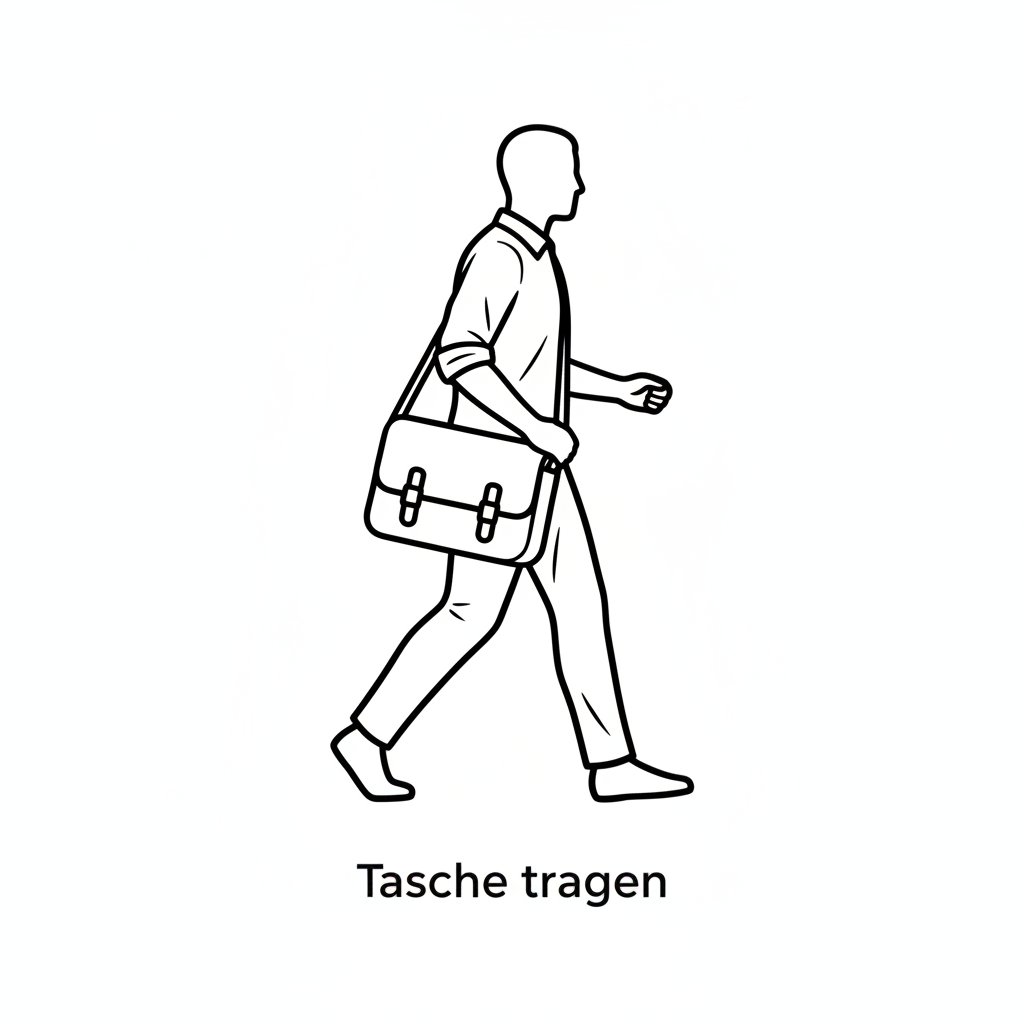
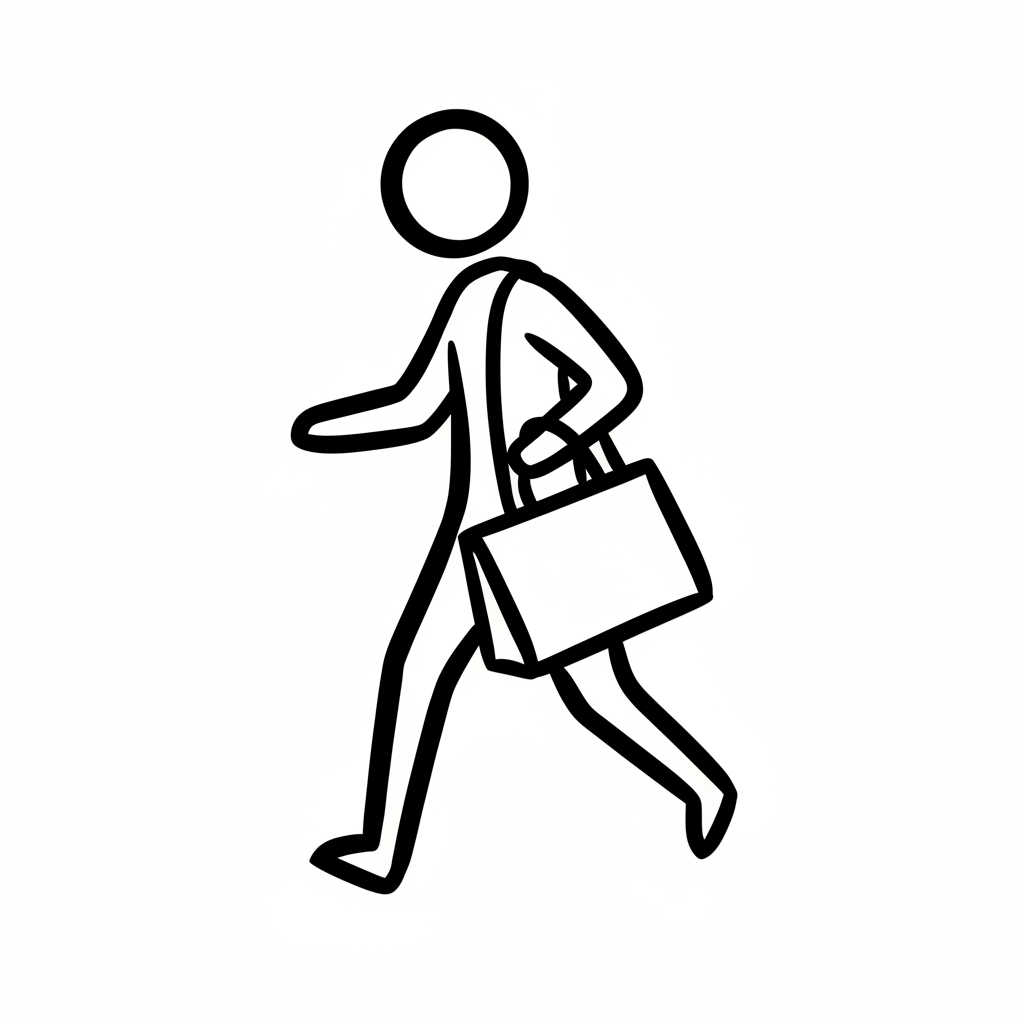
cards

Changed region(s): [[0.2812, 0.0938, 0.7188, 0.9062], [0.5625, 0.1562, 0.5938, 0.1875]]

diff --git a/scripts/generate-authentic-cards-rest.js b/scripts/generate-authentic-cards-rest.js
@@ -1,0 +1,123 @@
+
+import fs from 'fs';
+import path from 'path';
+import { fileURLToPath } from 'url';
+import dotenv from 'dotenv';
+import https from 'https';
+
+dotenv.config({ path: '.env.local' });
+
+// Setup __dirname for ES modules
+const __dirname = path.dirname(fileURLToPath(import.meta.url));
+const OUTPUT_DIR = path.join(__dirname, '../public/cards');
+
+const SPEAKING_PICTURE_CARDS = [
+    { id: 'sp1', type: 'picture', content: 'Fenster aufmachen' },
+    { id: 'sp2', type: 'picture', content: 'Stift leihen' },
+    { id: 'sp3', type: 'picture', content: 'Tür zumachen' },
+    { id: 'sp4', type: 'picture', content: 'Rauchen verboten' },
+    { id: 'sp5', type: 'picture', content: 'Rechnung bezahlen' },
+    { id: 'sp6', type: 'picture', content: 'Milch kaufen' },
+    { id: 'sp7', type: 'picture', content: 'Buch lesen' },
+    { id: 'sp8', type: 'picture', content: 'Kaffee trinken' },
+    { id: 'sp9', type: 'picture', content: 'Ruhe bitte' },
+    { id: 'sp10', type: 'picture', content: 'Telefonieren' },
+    { id: 'sp11', type: 'picture', content: 'Platz nehmen' },
+    { id: 'sp12', type: 'picture', content: 'Unterschreiben' },
+    { id: 'sp13', type: 'picture', content: 'Taxi rufen' },
+    { id: 'sp14', type: 'picture', content: 'Uhrzeit sagen' },
+    { id: 'sp15', type: 'picture', content: 'Wasser geben' },
+    { id: 'sp16', type: 'picture', content: 'Tasche tragen' },
+    { id: 'sp17', type: 'picture', content: 'Compact Disc' },
+    { id: 'sp18', type: 'picture', content: 'Stuhl' },
+    { id: 'sp19', type: 'picture', content: 'Apfel' },
+    { id: 'sp20', type: 'picture', content: 'Koffer' },
+    { id: 'sp21', type: 'picture', content: 'Radio' }
+];
+
+const apiKey = process.env.GEMINI_API_KEY || process.env.VITE_GEMINI_API_KEY;
+
+if (!apiKey) {
+    console.error("Error: GEMINI_API_KEY or VITE_GEMINI_API_KEY is not set.");
+    process.exit(1);
+}
+
+async function generateImage(card) {
+    console.log(`Generating SVG for: ${card.id} - ${card.content}...`);
+
+    const prompt = `Create a simple, black and white vector line art illustration of "${card.content}" as an SVG. 
+    Style: Minimalist, dictionary icon, thick uniform strokes.
+    IMPORTANT: Provide ONLY the raw SVG code. Do NOT use markdown code blocks. Do NOT include any <text> elements.`;
+
+    const postData = JSON.stringify({
+        contents: [{
+            parts: [{ text: prompt }]
+        }]
+    });
+
+    const options = {
+        hostname: 'generativelanguage.googleapis.com',
+        path: `/v1beta/models/gemini-1.5-flash:generateContent?key=${apiKey}`,
+        method: 'POST',
+        headers: {
+            'Content-Type': 'application/json',
+            'Content-Length': postData.length
+        }
+    };
+
+    return new Promise((resolve, reject) => {
+        const req = https.request(options, (res) => {
+            let data = '';
+            res.on('data', (chunk) => data += chunk);
+            res.on('end', () => {
+                try {
+                    const response = JSON.parse(data);
+
+                    if (response.candidates && response.candidates[0].content && response.candidates[0].content.parts[0].text) {
+                        let svgContent = response.candidates[0].content.parts[0].text;
+
+                        // Clean up markdown code blocks if present
+                        svgContent = svgContent.replace(/```svg/g, '').replace(/```/g, '').trim();
+
+                        // Force black stroke if missing (optional hack, but AI usually does it)
+
+                        const filePath = path.join(OUTPUT_DIR, `${card.id}.svg`);
+                        fs.writeFileSync(filePath, svgContent);
+                        console.log(`Saved: ${filePath}`);
+                        resolve();
+                    } else {
+                        console.error(`Unexpected response for ${card.id}:`, JSON.stringify(response).substring(0, 200));
+                        resolve();
+                    }
+                } catch (e) {
+                    console.error("JSON Parse Error:", e);
+                    resolve();
+                }
+            });
+        });
+
+        req.on('error', (e) => {
+            console.error(`Request Error for ${card.id}:`, e);
+            resolve();
+        });
+
+        req.write(postData);
+        req.end();
+    });
+}
+
+async function main() {
+    if (!fs.existsSync(OUTPUT_DIR)) {
+        fs.mkdirSync(OUTPUT_DIR, { recursive: true });
+    }
+
+    // Process sequentially
+    for (const card of SPEAKING_PICTURE_CARDS) {
+        await generateImage(card);
+        // Small delay to avoid rate limits (though Imagen limits are usually lower)
+        await new Promise(r => setTimeout(r, 2000));
+    }
+    console.log("Done.");
+}
+
+main();

diff --git a/scripts/generate-authentic-cards.js b/scripts/generate-authentic-cards.js
@@ -1,0 +1,113 @@
+
+import { GoogleGenAI } from "@google/genai";
+import fs from 'fs';
+import path from 'path';
+import { fileURLToPath } from 'url';
+import dotenv from 'dotenv';
+import https from 'https';
+
+// Setup __dirname for ES modules
+const __dirname = path.dirname(fileURLToPath(import.meta.url));
+const envLocalPath = path.resolve(__dirname, '../.env.local');
+const OutputDir = path.join(__dirname, '../public/cards');
+
+// Load environment variables
+if (fs.existsSync(envLocalPath)) {
+    dotenv.config({ path: envLocalPath });
+} else {
+    dotenv.config();
+}
+
+const apiKey = process.env.GEMINI_API_KEY || process.env.VITE_GEMINI_API_KEY || process.env.API_KEY;
+
+if (!apiKey) {
+    console.error("Error: API Key not found (checked GEMINI_API_KEY, VITE_GEMINI_API_KEY, API_KEY).");
+    process.exit(1);
+}
+
+const client = new GoogleGenAI({ apiKey });
+
+const SPEAKING_PICTURE_CARDS = [
+    { id: 'sp1', content: 'Fenster aufmachen' },
+    { id: 'sp2', content: 'Stift leihen' },
+    { id: 'sp3', content: 'Tür zumachen' },
+    { id: 'sp4', content: 'Rauchen verboten' },
+    { id: 'sp5', content: 'Rechnung bezahlen' },
+    { id: 'sp6', content: 'Milch kaufen' },
+    { id: 'sp7', content: 'Buch lesen' },
+    { id: 'sp8', content: 'Kaffee trinken' },
+    { id: 'sp9', content: 'Ruhe bitte' },
+    { id: 'sp10', content: 'Telefonieren' },
+    { id: 'sp11', content: 'Platz nehmen' },
+    { id: 'sp12', content: 'Unterschreiben' },
+    { id: 'sp13', content: 'Taxi rufen' },
+    { id: 'sp14', content: 'Uhrzeit sagen' },
+    { id: 'sp15', content: 'Wasser geben' },
+    { id: 'sp16', content: 'Tasche tragen' },
+    { id: 'sp17', content: 'Compact Disc' },
+    { id: 'sp18', content: 'Stuhl' },
+    { id: 'sp19', content: 'Apfel' },
+    { id: 'sp20', content: 'Koffer' },
+    { id: 'sp21', content: 'Radio' }
+];
+
+async function generateCard(card) {
+    const filePath = path.join(OutputDir, `${card.id}.png`);
+    console.log(`Generating ${card.id}: ${card.content}...`);
+
+    const prompt = `A single, bold, minimalist black-and-white ink line drawing of a "${card.content}". 
+    STYLE: Thick felt-tip marker lines, high contrast, hand-drawn sketch feel, strictly NO shading, NO colors, NO background (pure white background). 
+    Format: Iconographic and simple, similar to official Goethe-Zertifikat A1 Sprechen exam cards. 
+    IMPORTANT: Do not include any text, words, letters, or numbers in the image. JUST THE OBJECT/ACTION.`;
+
+    try {
+        const response = await client.models.generateContent({
+            model: 'gemini-2.5-flash-image',
+            contents: { parts: [{ text: prompt }] },
+            config: {
+                imageConfig: { aspectRatio: "1:1" }
+            }
+        });
+
+        // Find inline data
+        let foundData = null;
+        if (response.candidates && response.candidates[0].content && response.candidates[0].content.parts) {
+            for (const part of response.candidates[0].content.parts) {
+                if (part.inlineData && part.inlineData.data) {
+                    foundData = part.inlineData.data;
+                    break;
+                }
+            }
+        }
+
+        if (foundData) {
+            fs.writeFileSync(filePath, Buffer.from(foundData, 'base64'));
+            console.log(`Saved ${filePath}`);
+        } else {
+            console.error(`No image data returned for ${card.id}`);
+        }
+
+    } catch (error) {
+        if (error.status === 404 || error.code === 404) {
+            console.log(`Model 2.5 not found, trying fallback to gemini-2.0-flash-exp for SVG text?? No, ignoring.`);
+            console.error("Model not found: gemini-2.5-flash-image");
+        } else {
+            console.error(`Error generating ${card.id}:`, error.message || error);
+        }
+    }
+}
+
+async function main() {
+    if (!fs.existsSync(OutputDir)) {
+        fs.mkdirSync(OutputDir, { recursive: true });
+    }
+
+    for (const card of SPEAKING_PICTURE_CARDS) {
+        await generateCard(card);
+        // Delay
+        await new Promise(r => setTimeout(r, 2000));
+    }
+    console.log("Done.");
+}
+
+main();

diff --git a/components/SpeakingSession.tsx b/components/SpeakingSession.tsx
@@ -386,7 +386,7 @@ const SpeakingSession: React.FC<SpeakingSessionProps> = ({ cards, mode, onComple
 
       <div className="bg-slate-950 p-6 flex items-center justify-between">
         <div className="flex items-center gap-4">
-          <div className="text-slate-500 font-bold text-xs uppercase tracking-widest">Goethe-Zertifikat A1 Simulator</div>
+          <div className="text-slate-500 font-bold text-xs uppercase tracking-widest">Deutsch-Prüfung A1</div>
           <button onClick={onComplete} className="px-6 py-2 bg-red-600 text-white font-black rounded-xl hover:bg-red-700 transition-colors shadow-lg">BEENDEN</button>
         </div>
       </div>
